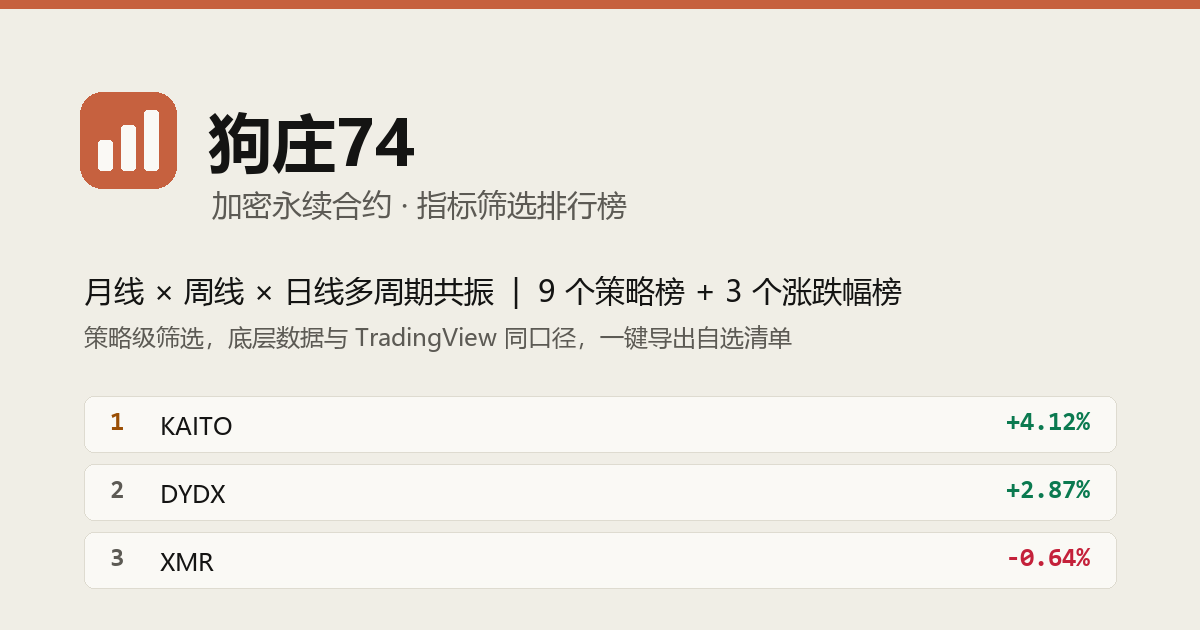
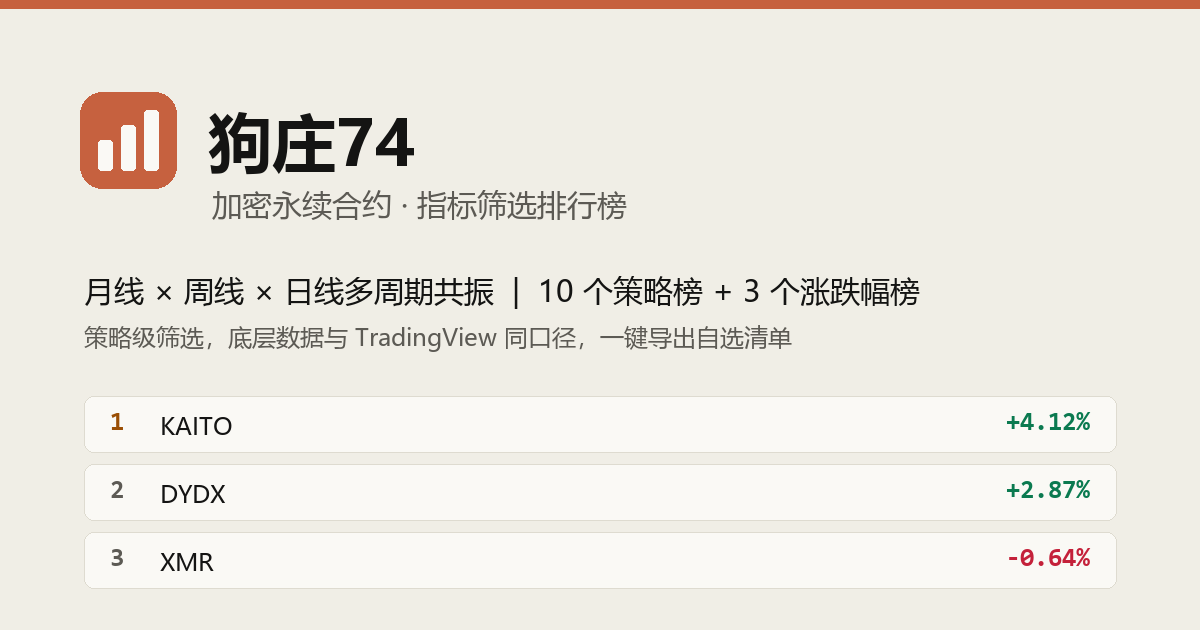
新增榜「日线9/21扩张＋SAR多头前两根＋突破最近一轮空头最后SAR点＋CVD递增」：放策略组第 2 位；v=320
- TABS_CONFIG 一条（cryptoStrategySorts）+ TAB_GROUPS 放在橱窗之后的第 2 位（站长要「置顶」，
  但第 1 位 ＝ 换橱窗，本榜 360 天有 48 天空榜 ⇒ 报了代价后站长选第 2 位、橱窗不动）。
- desc 写清四条判据与三处边界（前两根是两个「恰好」旗标之并、严格大于、CVD 用站内口径、扩张要两半都成立），
  并如实写回放：每天中位 2 个、48 天空榜、上线这天 84 个是罕见高位；次日收涨 42.3% vs 全市场 45.9%、
  5 天后 37.2% vs 42.7% ⇒「不是买入信号」。
- og.png 重跑：10 个策略榜 + 3 个涨跌幅榜；index.html 两处枚举「九个」→「十个」并按 rail 顺序插在第 2。

验证：node --check 通过；本地预览（注入 dry run 产出）rail 第 2 位、命中 84、行与说明正常渲染、
每行 sarBullBars ∈ {1,2} 且 emaGap ≥ 0、默认按日成交额降序、无横向溢出、控制台无错。

Changed region(s): [[0.4317, 0.4222, 0.7708, 0.4825]]

diff --git a/script.js b/script.js
@@ -294,6 +294,7 @@ const TABS_CONFIG = {
     weeklyBreakBearSarFirstBull: { sorts: cryptoStrategySorts, subFormat: (v, sf) => axesSub(v, sf, "日成交额") },
     monthlySecondLowDailyEmaSarBull: { sorts: cryptoStrategySorts, subFormat: (v, sf) => axesSub(v, sf, "日成交额") },
     dailyEmaSarBullFirstDivergence: { sorts: cryptoStrategySorts, subFormat: (v, sf) => axesSub(v, sf, "日成交额") },
+    dailyEmaCvdSarTwoBreakBearDot: { sorts: cryptoStrategySorts, subFormat: (v, sf) => axesSub(v, sf, "日成交额") },
 
     // A股 / 美股 / ETF 的配置已随资产整族退役删除（复活清单见 fetch_ashare.py / fetch_us.py 顶部；后端 RETIRED_KEY_PREFIXES
     // 不拿掉对应前缀，数据照跑也进不了站）。A股 用到的轴集 / 价格上下文常量保留为休眠件。
@@ -333,6 +334,8 @@ const TAB_GROUPS = [
             //   currentTab、lastTabByAsset、switchAsset 兜底与 index.html FAQ「哪些免费」里的榜名。
             { key: "monthlySarBearish", name: "月线突破SAR空头第二根低点", tf: "月线",
               desc: "最新已收盘那根月线的收盘价，站上了最近一轮月线 SAR 空头段里第 2 根 K 线的最低价。拆开说：先在月线上找到最近一轮 SAR 处在空头（圆点在 K 线上方）的那一段，取这一段第 2 根月 K 的最低价当参照线，再看最新已收盘那根月线的收盘价有没有高过这条线。只有这一个条件。有四处要先说清楚。第一，「最近一轮」不要求那一段已经结束：如果最新这根月线的 SAR 还在空头侧，参照的就是正在进行的这一轮下跌——收盘价站上这轮下跌第 2 根的低点，是抢在 SAR 翻多之前的领先信号，改判据当天 120 个命中里有 94 个正是这一类；如果 SAR 已经翻多，参照的就是刚刚结束的那一段。第二，本榜完全不问当前 SAR 是多头还是空头（这一点和它上一版判据正相反，上一版只问 SAR 方向）。第三，有一个退化的情形：当那个参照根恰好就是最新已收盘的这根月线时，「收盘价高于自己的最低价」按 K 线定义必然成立，这类标的会自动命中（改判据当天 120 个里有 18 个属于此类）——这是刻意保留的，不是漏做。第四，参照价取的是那一段第 2 根的最低价，不是收盘价、也不是第 1 根。命中数：改判据当天 120 个（上一版是 469 个、占全市场九成，那是一张背景名单，这一版不是）。回放过去 48 个月：中位 96 个、最少的一个月 14 个、最多 184 个，48 个月里一个月都没有空过；占当月可判标的中位约27.6%，也就是四分之一上下。本榜是免费橱窗榜：没有通行证也能看到这张榜里排在第一位的那个标的（按日成交额排序的第一名）——成员一个月才换一次，但排序看的是每天的成交额，所以这个第一名在月内也可能换人。这是一张门槛清单：参照线只在 SAR 换段时才会变，而收盘价每个月都在动，所以成员会随收盘价在那条线上下进出——上个月的成员这个月还在的比例中位数 84%，已经结束的在榜段中位只有 2 个月，最长的一段39 个月。也要如实说一句：它不是择时信号。回放里成员下个月收盘更高的比例是 37.0%（3994 个样本），当月可判全体是37.4%，两者几乎没有差别——它标记的是「价格已经从这轮月线级下跌里抬起头」这个事实，而不是预测下个月。它和「月线SAR多头首根＋收盘价反包所有空头SAR」那张榜大多数时候会重叠（那张要求收盘价越过整段空头 SAR 的圆点，位置比本榜这条线更高，站上更高的线自然也站上了这条），但不是必然：如果那一轮空头段只有 1 根月 K，本榜就没有「第 2 根」可参照、那个标的不会出现在本榜上——改判据当天就有这样一个。另有一张「月线突破SAR空头第二根低点＋成交量递增或缩量阳K」是本榜的子集——在本榜这一条之上再要求这个月放量、或者缩量收阳，它的每一个标的都必然在本榜上，回放里每个月大约占本榜的六成多。「月线突破SAR空头第二根低点＋至少二连阳」则更窄——在本榜这一条之上再要求这个月和上个月都收阳，它的每一个标的也必然在本榜上，回放里每个月中位约占本榜的一成半。日线那张「日线SAR空头首根＋SAR点高于前一轮空头首根＋月线突破SAR空头第二根低点」的每一个标的同样必然在本榜上——它的月线那一条和本榜一字不差，只是再要求这一天日线 SAR 刚刚由多翻空、而且圆点高过前一轮空头首根的圆点，所以每天通常只有零到几个。「月线突破SAR空头第二根低点＋日线9/21扩张＋SAR多头」也一样：月线那一条和本榜一字不差，再要求最新一根日线 EMA9/21 正在扩张、日线 SAR 在多头一侧，它的每一个标的也必然在本榜上。门槛：算 SAR 至少要 3 根已收盘月 K；另外那一轮空头段必须有第 2 根，段里只有 1 根、或者可用历史里一次空头都没出现过的标的不入榜（改判据当天有 16 个因此不在）。另外月线数据每月 1 号 00:00（UTC）新月线收盘后才刷新一次，同一个月之内反复打开本榜，看到的标的完全一样，这是正确行为不是数据卡住了。表格里的日线、周线、月线各轴都不参与筛选，用来在这批标的里再分强弱。范围是全部加密 USDT 永续合约。" },
+            { key: "dailyEmaCvdSarTwoBreakBearDot", name: "日线9/21扩张＋SAR多头前两根＋突破最近一轮空头最后SAR点＋CVD递增", tf: "日线",
+              desc: "四个条件都看最新已收盘的那根日线：一是 EMA9 在 EMA21 上方、而且两条均线的间距比前一天更大（结构正在张开）；二是它正好是这一轮 Parabolic SAR 多头的第 1 根或第 2 根——SAR 圆点刚翻到价格下方不久；三是它的收盘价，高过了刚结束那一轮 SAR 空头段里最后一根 K 线的圆点；四是 CVD 比前一天走强。拆开说第三条：SAR 空头期间圆点在价格上方、一路往下压，那一段最后一根的圆点是整段里最低的一个，也是价格翻多之前最后一道压制线；本榜要求收盘价已经站上它，不是盘中碰一下就算。有四处要先说清楚。第一，「前两根」是两个「恰好」旗标的并集——翻多当天是第 1 根、第二天是第 2 根，到第 3 根就掉出，所以同一个标的最多连着两天出现。第二，比较是严格大于，一样高不算；参照圆点取不到（不足 3 根、窗口内没出现过空头）的标的不入榜。第三，CVD 用的是站内一贯口径：当根为正、而且比前一天大，不是单纯看方向。第四，扩张是两半合起来才算：光是间距在变大还不够，EMA9 必须已经站到 EMA21 上方。和站内其他榜的关系：和「日线SAR空头首根＋SAR点高于前一轮空头首根＋月线突破SAR空头第二根低点」一定不会同时出现（那张要求最新一根日线刚翻到空头）；和「日线9/21扩张＋SAR多头首根＋最近一轮空头首根SAR点高于前一轮」都要 9/21 扩张、也都收翻多首根，但那张看的是两轮空头首根圆点谁更高、本榜看的是收盘价有没有站上上一轮的最后一个圆点，还多一条 CVD，两张互不包含（上线这一天 84 个里有 17 个同时在那张上）。命中数：回放过去 360 天，每天中位 2 个、最多 104 个，有 48 天一个都没有（约七分之一的天数）；上线这一天是 84 个，是全市场刚集中翻多之后的罕见高位，别当常态。四条里最卡人的是后两条：只看前两条每天中位 6 个，加上「站上最后一个圆点」剩 3 个，再加 CVD 剩 2 个。也要如实说一句：它不是买入信号。回放里成员次日收涨的比例是 42.3%（1571 个样本），全市场 45.9%；5 天后收盘比入榜那天更高的比例 37.2%，全市场 42.7%——都低于大盘。它更适合当成「刚翻多、而且已经站上上一轮压制线、资金同步转强」的观察名单，而不是追进去的理由。表格里的各轴都不参与筛选，用来在这批标的里再分强弱。日线每天 00:00（UTC）收盘后才换一批，同一天之内反复打开本榜，看到的标的完全一样，这是正确行为不是数据卡住了。上市不足 23 天的新合约日线数据不够，不入榜。范围是全部加密 USDT 永续合约。" },
             { key: "dailyEmaSarBullFirstDivergence", name: "日线9/21扩张＋SAR多头首根＋最近一轮空头首根SAR点高于前一轮", tf: "日线",
               desc: "三个条件都看最新已收盘的那根日线：一是 EMA9 在 EMA21 上方、而且两条均线的间距比前一天更大（结构正在张开）；二是它正好是这一轮 Parabolic SAR 多头的首根——SAR 圆点刚刚在这一天由价格上方翻到下方，前一天还在空头一侧；三是翻多之前刚刚结束的那一轮 SAR 空头，它首根日线上的 SAR 圆点，比再前一轮空头首根的 SAR 圆点更高。拆开说第三条：SAR 由多翻空的那一根，圆点会直接跳到刚结束那一波上涨的最高价附近，所以「空头首根的圆点」基本就是那一波上涨的顶；拿刚结束这一轮空头的首根圆点和再前一轮比，比的是这次回调之前的波段高点，有没有高过再前一个波段高点。三条合起来找的是：上一波已经创出更高的高点，回调一段之后，日线 SAR 重新翻多、均线也重新张开的那一天。它和「日线SAR空头首根＋SAR点高于前一轮空头首根＋月线突破SAR空头第二根低点」比的是同一对圆点：那张在这一轮空头开始的那天比，本榜等这一轮空头结束、SAR 重新翻多的那天再比，而且不看月线。有四处要先说清楚。第一，两个「空头首根」都必须是真正由多翻空的那一根——日线只取最近约 500 根，最早那段空头的开头可能不在窗口里，这种没有可靠参照的标的不入榜。第二，两个圆点的比较是严格大于，一样高不算。第三，扩张是两半合起来才算：光是间距在变大还不够，EMA9 必须已经站到 EMA21 上方。第四，除了 EMA9/21 和日线 SAR，本榜不看成交量、RSI 和其他指标。和站内其他榜的关系：和「日线SAR空头首根＋SAR点高于前一轮空头首根＋月线突破SAR空头第二根低点」一定不会同时出现（那张要求最新一根日线的 SAR 刚翻到空头）；和「月线突破SAR空头第二根低点＋日线9/21扩张＋SAR多头」没有包含关系——那张不要求刚翻多、本榜不看月线，但本榜里月线那一条也满足的标的，一定也在那张上（上线这一天 52 个里有 7 个）。这是一张事件清单：翻多当天出现，第二天它要么成了多头第二根、要么又翻回空头，都会离开本榜，同一个标的不会连着两天出现；表格里的「日SAR多头根数」在本榜上一定是 1。次日去向：回放里约 98% 第二天仍在多头（成了第二根），约 2% 第二天就翻回空头；这一轮多头从翻多那天算起维持的天数中位 9 天，约一成在三天之内结束，四成多能撑到十天以上。命中数很少，空榜很常见：回放过去 360 天，每天中位 2 个、最多 52 个，有 72 天一个都没有（约五分之一的天数）；只看前两条时每天中位 3 个、39 天空榜，加上第三条大约留下六成。上线这一天（最新已收盘的是 2026 年 9 月 18 日那根日线）是 52 个，正是这 360 天里最多的一天——那天全市场有 125 个标的日线 SAR 同时翻多，是普涨后的集中翻多，别当成常态。也要如实说一句：它不是买入信号，回放里略跑输大盘。成员次日收涨的比例是 41.1%（1094 个样本），全市场 45.8%；5 天后收盘比入榜那天更高的比例 39.9%，全市场 42.6%。只看前两条时是 42.1% 和 39.4%，所有日线 SAR 刚翻多的标的是 43.6% 和 41.7%——加上第三条并没有让它更会挑。它更适合当成「前高在抬高、回调后刚转多」的观察名单，而不是追进去的理由。日线每天 00:00（UTC）收盘后才换一批，同一天之内反复打开本榜，看到的标的完全一样，这是正确行为不是数据卡住了。表格里的各轴都不参与筛选，用来在这批标的里再分强弱。上市不足 23 天的新合约日线数据不够，不入榜。范围是全部加密 USDT 永续合约。" },
             { key: "dailySarBearFirstDivergence", name: "日线SAR空头首根＋SAR点高于前一轮空头首根＋月线突破SAR空头第二根低点", tf: "日线/月线",

diff --git a/index.html b/index.html
@@ -374,7 +374,7 @@
          三处又一起改了（本注释 + meta + FAQ「哪些免费」枚举里的榜名）；FAQ「每个榜到底在筛什么」里点名它的例句
          （「周线上三条均线张开过之后上下顺序是不是一直没乱」）同批改；「月线9/21扩张存续」desc 里点名旧榜名的那句也同批改。
          tf 徽标用新增的「日周」（script.js 的 TF_SHORT）。bump v=286。 -->
-    <meta name="description" content="加密永续合约的日线/周线/月线涨跌幅榜，加九个多周期趋势榜（月线突破 SAR 空头第二根低点、日线 9/21 扩张＋SAR 多头首根＋最近一轮空头首根 SAR 点高于前一轮、日线 SAR 空头首根＋SAR 点高于前一轮空头首根＋月线突破 SAR 空头第二根低点、月线 SAR 多头首根＋收盘价反包所有空头 SAR、周线首次 9/21 扩张、月线突破 SAR 空头第二根低点＋成交量递增或缩量阳K、月线突破 SAR 空头第二根低点＋至少二连阳、周线突破 SAR 空头最新阳线收盘价＋SAR 多头、月线突破 SAR 空头第二根低点＋日线 9/21 扩张＋SAR 多头），随收盘自动更新，一键导出自选清单；另附永续合约全市场情绪概览。">
+    <meta name="description" content="加密永续合约的日线/周线/月线涨跌幅榜，加十个多周期趋势榜（月线突破 SAR 空头第二根低点、日线 9/21 扩张＋SAR 多头前两根＋突破最近一轮空头最后 SAR 点＋CVD 递增、日线 9/21 扩张＋SAR 多头首根＋最近一轮空头首根 SAR 点高于前一轮、日线 SAR 空头首根＋SAR 点高于前一轮空头首根＋月线突破 SAR 空头第二根低点、月线 SAR 多头首根＋收盘价反包所有空头 SAR、周线首次 9/21 扩张、月线突破 SAR 空头第二根低点＋成交量递增或缩量阳K、月线突破 SAR 空头第二根低点＋至少二连阳、周线突破 SAR 空头最新阳线收盘价＋SAR 多头、月线突破 SAR 空头第二根低点＋日线 9/21 扩张＋SAR 多头），随收盘自动更新，一键导出自选清单；另附永续合约全市场情绪概览。">
     <link rel="canonical" href="https://gouzhuang748.com/">
     <link rel="icon" type="image/svg+xml" href="favicon.svg">
     <!-- PWA 基础:加主屏 = 全屏 app 体验。刻意不加 Service Worker——loadData 的
@@ -562,7 +562,7 @@
         <p>加密：每小时自动抓取一次（整点后约 2 分钟），覆盖全部加密 USDT 永续合约，日线以 UTC 00:00 收盘为准；顶部的市场概览条同一节奏刷新。</p>
         <h4>哪些免费、哪些收费？</h4>
         <p><b>免费的是加密「月线突破SAR空头第二根低点」榜里排名第一的那一个标的</b>，以及顶部的市场概览条（全市场情绪、涨跌家数、总成交额、资金费率）。这两块永久免费、不需要通行证。</p>
-        <p><b>榜单本身需要购买通行证解锁</b>——加密有三个涨跌幅榜（日线 / 周线 / 月线，全市场无筛选）和九个策略榜（月线突破 SAR 空头第二根低点、日线 9/21 扩张＋SAR 多头首根＋最近一轮空头首根 SAR 点高于前一轮、日线 SAR 空头首根＋SAR 点高于前一轮空头首根＋月线突破 SAR 空头第二根低点、月线 SAR 多头首根＋收盘价反包所有空头 SAR、周线首次 9/21 扩张、月线突破 SAR 空头第二根低点＋成交量递增或缩量阳K、月线突破 SAR 空头第二根低点＋至少二连阳、周线突破 SAR 空头最新阳线收盘价＋SAR 多头、月线突破 SAR 空头第二根低点＋日线 9/21 扩张＋SAR 多头），是本站的核心价值。无需注册账号，付款用加密货币（OxaPay），到账后通行证自动发到邮箱。</p>
+        <p><b>榜单本身需要购买通行证解锁</b>——加密有三个涨跌幅榜（日线 / 周线 / 月线，全市场无筛选）和十个策略榜（月线突破 SAR 空头第二根低点、日线 9/21 扩张＋SAR 多头前两根＋突破最近一轮空头最后 SAR 点＋CVD 递增、日线 9/21 扩张＋SAR 多头首根＋最近一轮空头首根 SAR 点高于前一轮、日线 SAR 空头首根＋SAR 点高于前一轮空头首根＋月线突破 SAR 空头第二根低点、月线 SAR 多头首根＋收盘价反包所有空头 SAR、周线首次 9/21 扩张、月线突破 SAR 空头第二根低点＋成交量递增或缩量阳K、月线突破 SAR 空头第二根低点＋至少二连阳、周线突破 SAR 空头最新阳线收盘价＋SAR 多头、月线突破 SAR 空头第二根低点＋日线 9/21 扩张＋SAR 多头），是本站的核心价值。无需注册账号，付款用加密货币（OxaPay），到账后通行证自动发到邮箱。</p>
         <h4>每个榜到底在筛什么？</h4>
         <p>切到任一榜单，表格上方那行说明的就是<b>这个榜在找什么样的行情</b>。策略榜各问各的问题：有的看多周期共振（月线定方向、日线定入场时机，两个级别同时点头才入榜），有的只盯一个周期上的某种结构（比如周线上的两条均线是不是这一周才刚开始张开、月线 SAR 是不是刚翻多而且收盘价反包了整段空头的 SAR 圆点、月线收盘价是不是站上了最近一轮 SAR 空头段第二根 K 线的低点、周线收盘价是不是站上了上一轮下跌里最后一次反弹的收盘价），有的在价格位置上再叠一道门槛（比如月线收盘价站上最近一轮 SAR 空头段第二根 K 线的低点之后，再要求这个月的成交量比上个月大、或者量没放大但当月收阳；或者再要求至少连涨两个月），还有的把几件事叠在同一个周期上（比如日线上均线正在张开、SAR 恰好在这一天翻多、而且这一轮回调之前的高点比上一轮更高——三条一起满足才入榜）；导航上的命中数不解锁也能看到。涨跌幅榜正相反，<b>没有任何筛选条件</b>，全市场按涨跌幅一字排开，用来先看清市场在发生什么、再进策略榜里筛。</p>
         <!-- ⚠ 2026-07-23 站长已把榜名恢复成直白命名（榜名里就写着 9/21/55、SAR、CVD），
@@ -638,6 +638,6 @@
     </ol>
 </dialog>
 
-<script src="script.js?v=319"></script>
+<script src="script.js?v=320"></script>
 </body>
 </html>
